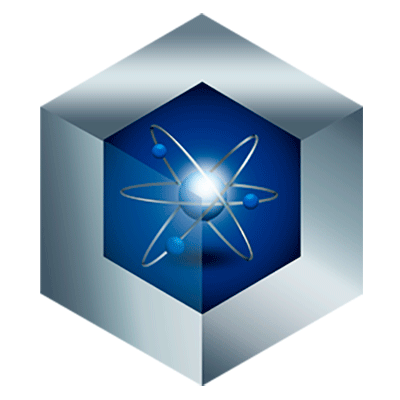
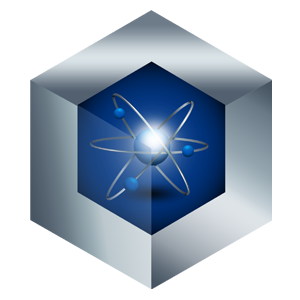
Nucleo editado

diff --git a/Nucleo/nucle.css b/Nucleo/nucle.css
@@ -9,7 +9,7 @@ body {
 	position: absolute;
 	top:50%;
 	left: 50%;
-	transform: translate(-50%,-50%) scale(.3);
+	transform: translate(-50%,-50%) scale(.4);
 	-webkit-animation: subeybaja 1s ease-in-out infinite alternate;	
 }
 
@@ -26,8 +26,8 @@ body {
 }
 
 #nucleo {
-	height: 400px ;
-	width: 400px;
+	height: 300px ;
+	width: 300px;
 	background-image: url('images/CLOUD.png');
 	/*border-radius: 2000px;*/
 	position: absolute;
@@ -37,13 +37,13 @@ body {
 }
 
 .electron{
-	width: 80px;
-	height:80px;
+	width: 100px;
+	height:100px;
 	position: absolute;
 	/*background-image: url('images/emoji4.png');*/
 	margin: -20px 0 0 -20px;
 	left:-300px;
-	border-radius: 2000px;
+	/*border-radius: 2000px;*/
 	-webkit-animation: movimiento 2s ease-in-out infinite,
 					   agrandar 2s linear infinite;
 	z-index: 1;
@@ -51,28 +51,32 @@ body {
 
 
 .electron.b {
-	background-image: url('images/ANDROID80.png');
+	background-image: url('images/ANDROID100.png');
 }
 
 .electron.c {
-	background-image: url('images/WORDPRESS80.png');
+	background-image: url('images/IOS100.png');
 }
 
 .electron.d {
-	background-image: url('images/MAILCHIMP80.png');
+	background-image: url('images/MAILCHIMP100.png');
 }
 
 .electron.e {
-	background-image: url('images/SEO80.png');
+	background-image: url('images/SEO100.png');
 }
 
 .electron.f {
-	background-image: url('images/DJANGO80.png');
+	background-image: url('images/WORDPRESS100.png');
 }
 
 .electron.g {
-	background-image: url('images/IOS80.png');
+	background-image: url('images/DJANGO100.png');
 }
+
+/*.electron.h {
+	background-image: url('images/emoji10.png');
+}*/
 
 
 
@@ -96,7 +100,7 @@ body {
 	
 	
 	25% {
-		transform: scale(2.5);
+		transform: scale(1.8);
 	}
 	
 	
@@ -107,10 +111,11 @@ body {
 }
 
 .electron:nth-child(2) {display: none;}
+
 .electron:nth-child(3), .electron:nth-child(6){
-	-webkit-animation: movimiento 3.9s ease-in-out infinite,
+	-webkit-animation: movimiento 3.5s ease-in-out infinite,
 					   agrandar 1.7s linear infinite ,
-					   movimiento2 2.2s ease-in-out infinite;
+					   movimiento2 1.8s ease-in-out infinite;
 	top: -200px;
 }
 
@@ -123,9 +128,9 @@ body {
 
 .electron:nth-child(4), .electron:nth-child(7) {
 	-webkit-animation: agrandar 1.7s linear infinite ,
-					   movimiento2 3.9s ease-in-out infinite,
-					   movimiento3 2.3s ease-in-out infinite;
-	left: 450px;
+					   movimiento2 3.5s ease-in-out infinite,
+					   movimiento3 1.7s ease-in-out infinite;
+	left: 300px;
 	top: -200px;
 	z-index: 1;
 }
@@ -136,7 +141,7 @@ body {
 		z-index: 1;
 	}
 	50% {
-		left: -250px;
+		left: -300px;
 		z-index: -1;
 	}
 	
@@ -148,10 +153,10 @@ body {
 .electron:nth-child(5), .electron:nth-child(8) {
 	
 	top: 200px;
-	left: 450px;
-	-webkit-animation:movimiento3 3.9s ease-in-out infinite,
+	left: 300px;
+	-webkit-animation:movimiento3 3s ease-in-out infinite,
 					  agrandar 1.7s linear infinite ,
-					  movimiento4 2.3s ease-in-out infinite;
+					  movimiento4 1.7s ease-in-out infinite;
 	
 }
 
